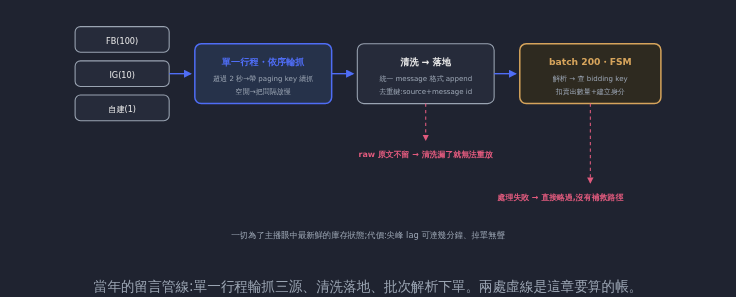
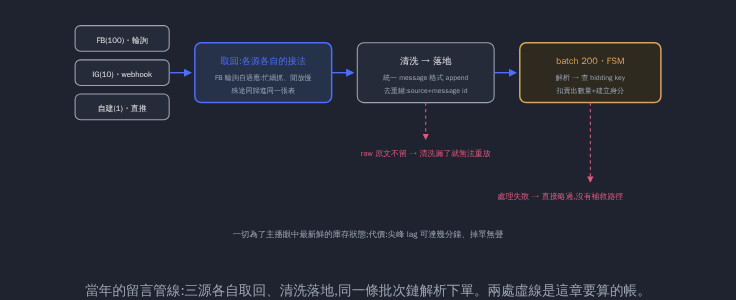
修正留言接入的描述:三源各自取回,同一條批次鏈消化
#3 原寫「單一行程依序輪抓三源」,與 #1「三個平台的取得方式完全不同
(webhook、輪詢、自家直推)」矛盾。實況是三源接法各異、但都落進同一
張 message 表由同一條批次處理鏈消化——「綁在一起」的是處理端不是抓
取端。本章明確聚焦 FB(流量 100:10:1),後續章節只討論 FB 因此成為
自然的聚焦而非矛盾:

- 開場補「三源殊途同歸」的框架,抓取故事明說以 FB 輪詢為主
- 管線圖:來源框標注各自接法,中間框改為「取回:各源各自的接法」
- 自適應輪詢的代價改寫為下游批次鏈的排隊,LWW 時鐘一問同步改為
  「落地順序+單一消費者」,重來版由「每源一條抓取迴圈」改為
  「每源一條處理鏈」
- FSM 節錄補一行註解,說明 _add_result 內 state=STYLE 與狀態圖
  NUMBER→DETERMIN 的關係
- 鐵人賽 day03 同步修正、day03-1.png 重產,day04 同步補註解

Claude-Session: https://claude.ai/code/session_01Fqj6R94ai215nT9qBcjGj2

diff --git a/src/content/blog/rezero-comment-order.md b/src/content/blog/rezero-comment-order.md
@@ -2,7 +2,7 @@
 title: "留言即下單:把聊天室變成下單通道"
 date: 2026-07-25
 category: tech
-description: "直播代購主線第一戰:單一行程輪抓三個平台的留言、自適應節奏、清洗落地,再用一台自製 FSM 把「2601藍+1紅+2」解析成訂單——逐段拆解這台狀態機的設計與精妙處,以及「失敗直接略過」這個最痛的取捨。"
+description: "直播代購主線第一戰:三個平台的留言殊途同歸進同一條處理鏈、FB 輪詢的自適應節奏、清洗落地,再用一台自製 FSM 把「2601藍+1紅+2」解析成訂單——逐段拆解這台狀態機的設計與精妙處,以及「失敗直接略過」這個最痛的取捨。"
 tags:
   - war-story
   - live-commerce
@@ -16,19 +16,19 @@ draft: false
 
 ## 當年的管線:一條迴圈,吃下三個平台
 
-留言來自三個源:**FB、IG、自建直播間**,流量比例大約 **100:10:1**——FB 是絕對主戰場。當年的接法樸素到有點可愛:
+留言來自三個源:**FB、IG、自建直播間**,流量比例大約 **100:10:1**——FB 是絕對主戰場。三源的取得方式各不相同(全景篇提過的 webhook、輪詢、自家直推),但殊途同歸:**全部落進同一張 message 表,由同一條批次處理鏈消化**。所以這章的抓取故事以 FB 的輪詢為主——流量在這裡,坑也都在這裡。當年的接法樸素到有點可愛:
 
 <figure style="margin:1.5rem 0;text-align:center;">
-  <svg viewBox="0 0 580 252" role="img" aria-label="當年的留言處理管線。左側三個來源:FB 流量占比一百、IG 十、自建一。單一行程的連續 job 依序輪抓三源,節奏自適應:一輪超過兩秒就帶著 paging key 立刻續抓,空閒就放慢。抓到的留言清洗成統一 message 格式後 append 進資料庫,但原文不保留。下游每批兩百筆,用 FSM 解析、查 bidding key、扣賣出數量並建立身分。兩個痛點以警示標出:原文不留等於無法重放修正;處理失敗直接略過、沒有補救路徑,尖峰時延遲可達幾分鐘。" style="width:100%;max-width:620px;height:auto;margin:0 auto;">
+  <svg viewBox="0 0 580 252" role="img" aria-label="當年的留言處理管線。左側三個來源,取得方式各不相同:FB 流量占比一百,靠自適應輪詢——連續 job 一輪超過兩秒就帶著 paging key 立刻續抓,空閒就放慢;IG 占比十,走 webhook;自建直播間占比一,自家直推。三源殊途同歸:清洗成統一 message 格式後 append 進同一張資料表,但原文不保留。下游是同一條批次處理鏈,每批兩百筆,用 FSM 解析、查 bidding key、扣賣出數量並建立身分。兩個痛點以警示標出:原文不留等於無法重放修正;處理失敗直接略過、沒有補救路徑,尖峰時延遲可達幾分鐘。" style="width:100%;max-width:620px;height:auto;margin:0 auto;">
     <defs><marker id="rcf" markerWidth="7" markerHeight="7" refX="5" refY="3" orient="auto"><path d="M0,0 L0,6 L6,3 z" fill="#4f6df5"/></marker><marker id="rcp" markerWidth="7" markerHeight="7" refX="5" refY="3" orient="auto"><path d="M0,0 L0,6 L6,3 z" fill="#e05a7d"/></marker></defs>
-    <rect x="16" y="24" width="88" height="24" rx="5" fill="#262b3a" stroke="#9aa4b2" stroke-width="1"/><text x="60" y="40" fill="#e6e6e6" font-size="7.6" text-anchor="middle">FB(100)</text>
-    <rect x="16" y="56" width="88" height="24" rx="5" fill="#262b3a" stroke="#9aa4b2" stroke-width="1"/><text x="60" y="72" fill="#e6e6e6" font-size="7.6" text-anchor="middle">IG(10)</text>
-    <rect x="16" y="88" width="88" height="24" rx="5" fill="#262b3a" stroke="#9aa4b2" stroke-width="1"/><text x="60" y="104" fill="#e6e6e6" font-size="7.6" text-anchor="middle">自建(1)</text>
+    <rect x="16" y="24" width="88" height="24" rx="5" fill="#262b3a" stroke="#9aa4b2" stroke-width="1"/><text x="60" y="40" fill="#e6e6e6" font-size="7.4" text-anchor="middle">FB(100)・輪詢</text>
+    <rect x="16" y="56" width="88" height="24" rx="5" fill="#262b3a" stroke="#9aa4b2" stroke-width="1"/><text x="60" y="72" fill="#e6e6e6" font-size="7.4" text-anchor="middle">IG(10)・webhook</text>
+    <rect x="16" y="88" width="88" height="24" rx="5" fill="#262b3a" stroke="#9aa4b2" stroke-width="1"/><text x="60" y="104" fill="#e6e6e6" font-size="7.4" text-anchor="middle">自建(1)・直推</text>
     <line x1="104" y1="68" x2="124" y2="68" stroke="#4f6df5" stroke-width="1.3" marker-end="url(#rcf)"/>
     <rect x="128" y="40" width="128" height="56" rx="6" fill="#26324a" stroke="#4f6df5" stroke-width="1.4"/>
-    <text x="192" y="60" fill="#4f6df5" font-size="8.6" text-anchor="middle" font-weight="bold">單一行程・依序輪抓</text>
-    <text x="192" y="75" fill="#9aa4b2" font-size="6.6" text-anchor="middle">超過 2 秒→帶 paging key 續抓</text>
-    <text x="192" y="87" fill="#9aa4b2" font-size="6.6" text-anchor="middle">空閒→把間隔放慢</text>
+    <text x="192" y="60" fill="#4f6df5" font-size="8.6" text-anchor="middle" font-weight="bold">取回:各源各自的接法</text>
+    <text x="192" y="75" fill="#9aa4b2" font-size="6.6" text-anchor="middle">FB 輪詢自適應:忙續抓、閒放慢</text>
+    <text x="192" y="87" fill="#9aa4b2" font-size="6.6" text-anchor="middle">殊途同歸進同一張表</text>
     <line x1="256" y1="68" x2="276" y2="68" stroke="#4f6df5" stroke-width="1.3" marker-end="url(#rcf)"/>
     <rect x="280" y="40" width="128" height="56" rx="6" fill="#262b3a" stroke="#9aa4b2" stroke-width="1"/>
     <text x="344" y="60" fill="#e6e6e6" font-size="8.6" text-anchor="middle" font-weight="bold">清洗 → 落地</text>
@@ -45,12 +45,12 @@ draft: false
     <text x="470" y="186" fill="#e05a7d" font-size="7.4" text-anchor="middle" font-weight="bold">處理失敗 → 直接略過,沒有補救路徑</text>
     <text x="290" y="222" fill="#9aa4b2" font-size="7.8" text-anchor="middle">一切為了主播眼中最新鮮的庫存狀態;代價:尖峰 lag 可達幾分鐘、掉單無聲</text>
   </svg>
-  <figcaption style="font-size:.85rem;color:#9aa4b2;margin-top:.4rem;">當年的留言管線:單一行程輪抓三源、清洗落地、批次解析下單。兩處虛線是這章要算的帳。</figcaption>
+  <figcaption style="font-size:.85rem;color:#9aa4b2;margin-top:.4rem;">當年的留言管線:三源各自取回、清洗落地,同一條批次鏈解析下單。兩處虛線是這章要算的帳。</figcaption>
 </figure>
 
 三個細節值得放大:
 
-- **自適應節奏其實是一個自調的速率控制器。** 一輪抓完看耗時:超過 2 秒代表留言正湧入,帶著 paging key 立刻接著抓;低於 2 秒代表場子冷,把間隔放慢一點。不用外部設定、不用監控儀表,迴圈自己感知流量、自己調速——小團隊憑直覺做出來的東西,事後看是很標準的 adaptive polling。它的缺點只有一個:**三個源綁在同一條迴圈上**,FB 爆量加速時,IG 和自建的新鮮度被拖著走;FB 被限流卡住時,另外兩源也一起等。
+- **FB 的輪詢,是一個自調的速率控制器。** 一輪抓完看耗時:超過 2 秒代表留言正湧入,帶著 paging key 立刻接著抓;低於 2 秒代表場子冷,把間隔放慢一點。不用外部設定、不用監控儀表,迴圈自己感知流量、自己調速——小團隊憑直覺做出來的東西,事後看是很標準的 adaptive polling。要付的代價在下游:三源殊途同歸之後**擠在同一條批次處理鏈上**,FB 爆量時,IG 和自建的單也跟著在佇列裡排隊——FB 的洪峰,是所有人的延遲。
 - **去重鍵選對了:`source + message id`。** 輪詢一定會抓到重疊區間,靠平台原生的留言 ID 當唯一鍵,重抓幾次都不會重複入庫——這是接入層的冪等,做對了後面全順。
 - **清洗完,原文就丟了。** 留言直接被轉成自訂的 message 格式落地,raw 不留。這個決定當年沒人多想,後來成了最貴的一筆學費——清洗規則漏接的留言,**連「漏接了什麼」都無從知道**,除錯只能用猜的。
 
@@ -110,7 +110,7 @@ class CommentsFSM:
             self.results.clear()                 # 中段壞掉:整則作廢
             self.state = self.State.ERROR
             return
-        self.state = self.State.STYLE
+        self.state = self.State.STYLE            # 收尾路徑用;途中結帳會被 _handle_number 蓋成 DETERMIN
         self.current_str = ""
         self.current_number = ""
 ```
@@ -180,7 +180,7 @@ class CommentsFSM:
 
 「同一人重複留言,以最後一筆為準」——[[ddia-replication|LWW]] 一句話就講完,但「最後」這個字要先回答三個問題:
 
-1. **以什麼時鐘為準?** 跨 FB/IG/自建三個源,各平台的時間戳基準不可比。當年的答案很務實:**以我們抓到的順序為主、平台時間戳為輔**——反正只有一條抓取迴圈,它進 DB 的順序就是全域順序。單一消費者的意外好處:**你自己就是時鐘**。
+1. **以什麼時鐘為準?** 跨 FB/IG/自建三個源,各平台的時間戳基準不可比。當年的答案很務實:**以我們落地的順序為主、平台時間戳為輔**——三源都寫進同一張 message 表,再由同一條批次處理鏈依序消化,入庫順序就是全域順序。單一消費者的意外好處:**你自己就是時鐘**。
 2. **覆蓋的粒度是什麼?** 是 key+style 級:後留的 `2601藍+1` 只蓋藍色,先前的 `2601紅+2` 還在。而且這是一個**帶副作用的 LWW**——蓋掉 `+2` 變 `+1`,購物車數量要改、賣出數量表要補回差額。一般系統的 LWW 丟掉舊值就完事,這裡的舊值佔著庫存,覆蓋即補償。
 3. **「最後」的邊界在哪一場?** 主播有**重喊**的需求——同一個 key 重新開賣,舊場次的單**全部清除、完整重算**,客人要重新留言。所以 LWW 的有效鍵其實是「人+場次+style」:重喊即斷代。被清單的客人沒有系統通知,純靠主播口播——這也是 feature:主播就是這個平台的通知系統,「現在不留就沒了」的急迫感,正是直播銷售的引擎。
 
@@ -190,7 +190,7 @@ class CommentsFSM:
 
 重來版不推翻這個優先序,只拆掉它的前提——當年之所以二選一,是因為「處理」和「事實」綁在同一條命脈上。拆開就好:
 
-- **每源一條抓取迴圈**,自適應節奏保留,但 FB 的洪峰不再拖累 IG 和自建;
+- **每源一條處理鏈**(取回端本來就各自獨立),FB 的洪峰不再拖著 IG 和自建的單一起排隊;
 - **raw 原文與統一事件都落地**([[ddia-streaming|事件流]]是唯一事實來源),清洗規則漏接,重放就能補;
 - **快路徑照樣跳過失敗**——但失敗的事件進 dead-letter 佇列留著,一條慢速補救路徑事後重放([[kafka-delivery|投遞語意]]那套在這裡全用得上);
 - 解析與扣庫存**拆成兩段**:解析是純函式、可以平行,扣庫存才需要排隊——當年它們擠在同一個 batch 迴圈裡,慢的拖著快的。

diff --git a/docs/ironman/day03.md b/docs/ironman/day03.md
@@ -4,13 +4,13 @@
 
 ## 當年的管線:一條迴圈,吃下三個平台
 
-留言來自三個源:**FB、IG、自建直播間**,流量比例大約 **100:10:1**——FB 是絕對主戰場。當年的接法樸素到有點可愛:
+留言來自三個源:**FB、IG、自建直播間**,流量比例大約 **100:10:1**——FB 是絕對主戰場。三源的取得方式各不相同(Day 1 提過的 webhook、輪詢、自家直推),但殊途同歸:**全部落進同一張 message 表,由同一條批次處理鏈消化**。所以這章的抓取故事以 FB 的輪詢為主——流量在這裡,坑也都在這裡。當年的接法樸素到有點可愛:
 
-![當年的留言管線:單一行程輪抓三源、清洗落地、批次解析下單。兩處虛線是這章要算的帳。](day03-1.png)
+![當年的留言管線:三源各自取回、清洗落地,同一條批次鏈解析下單。兩處虛線是這章要算的帳。](day03-1.png)
 
 三個細節值得放大:
 
-- **自適應節奏其實是一個自調的速率控制器。** 一輪抓完看耗時:超過 2 秒代表留言正湧入,帶著 paging key 立刻接著抓;低於 2 秒代表場子冷,把間隔放慢一點。不用外部設定、不用監控儀表,迴圈自己感知流量、自己調速——小團隊憑直覺做出來的東西,事後看是很標準的 adaptive polling。它的缺點只有一個:**三個源綁在同一條迴圈上**,FB 爆量加速時,IG 和自建的新鮮度被拖著走;FB 被限流卡住時,另外兩源也一起等。
+- **FB 的輪詢,是一個自調的速率控制器。** 一輪抓完看耗時:超過 2 秒代表留言正湧入,帶著 paging key 立刻接著抓;低於 2 秒代表場子冷,把間隔放慢一點。不用外部設定、不用監控儀表,迴圈自己感知流量、自己調速——小團隊憑直覺做出來的東西,事後看是很標準的 adaptive polling。要付的代價在下游:三源殊途同歸之後**擠在同一條批次處理鏈上**,FB 爆量時,IG 和自建的單也跟著在佇列裡排隊——FB 的洪峰,是所有人的延遲。
 - **去重鍵選對了:`source + message id`。** 輪詢一定會抓到重疊區間,靠平台原生的留言 ID 當唯一鍵,重抓幾次都不會重複入庫——這是接入層的冪等,做對了後面全順。
 - **清洗完,原文就丟了。** 留言直接被轉成自訂的 message 格式落地,raw 不留。這個決定當年沒人多想,後來成了最貴的一筆學費——清洗規則漏接的留言,**連「漏接了什麼」都無從知道**,除錯只能用猜的。
 
@@ -18,7 +18,7 @@
 
 「同一人重複留言,以最後一筆為準」——LWW 一句話就講完,但「最後」這個字要先回答三個問題:
 
-1. **以什麼時鐘為準?** 跨 FB/IG/自建三個源,各平台的時間戳基準不可比。當年的答案很務實:**以我們抓到的順序為主、平台時間戳為輔**——反正只有一條抓取迴圈,它進 DB 的順序就是全域順序。單一消費者的意外好處:**你自己就是時鐘**。
+1. **以什麼時鐘為準?** 跨 FB/IG/自建三個源,各平台的時間戳基準不可比。當年的答案很務實:**以我們落地的順序為主、平台時間戳為輔**——三源都寫進同一張 message 表,再由同一條批次處理鏈依序消化,入庫順序就是全域順序。單一消費者的意外好處:**你自己就是時鐘**。
 2. **覆蓋的粒度是什麼?** 是 key+style 級:後留的 `2601藍+1` 只蓋藍色,先前的 `2601紅+2` 還在。而且這是一個**帶副作用的 LWW**——蓋掉 `+2` 變 `+1`,購物車數量要改、賣出數量表要補回差額。一般系統的 LWW 丟掉舊值就完事,這裡的舊值佔著庫存,覆蓋即補償。
 3. **「最後」的邊界在哪一場?** 主播有**重喊**的需求——同一個 key 重新開賣,舊場次的單**全部清除、完整重算**,客人要重新留言。所以 LWW 的有效鍵其實是「人+場次+style」:重喊即斷代。被清單的客人沒有系統通知,純靠主播口播——這也是 feature:主播就是這個平台的通知系統,「現在不留就沒了」的急迫感,正是直播銷售的引擎。
 
@@ -28,7 +28,7 @@
 
 重來版不推翻這個優先序,只拆掉它的前提——當年之所以二選一,是因為「處理」和「事實」綁在同一條命脈上。拆開就好:
 
-- **每源一條抓取迴圈**,自適應節奏保留,但 FB 的洪峰不再拖累 IG 和自建;
+- **每源一條處理鏈**(取回端本來就各自獨立),FB 的洪峰不再拖著 IG 和自建的單一起排隊;
 - **raw 原文與統一事件都落地**(事件流是唯一事實來源),清洗規則漏接,重放就能補;
 - **快路徑照樣跳過失敗**——但失敗的事件進 dead-letter 佇列留著,一條慢速補救路徑事後重放(投遞語意那套在這裡全用得上);
 - 解析與扣庫存**拆成兩段**:解析是純函式、可以平行,扣庫存才需要排隊——當年它們擠在同一個 batch 迴圈裡,慢的拖著快的。

diff --git a/docs/ironman/day04.md b/docs/ironman/day04.md
@@ -58,7 +58,7 @@ class CommentsFSM:
             self.results.clear()                 # 中段壞掉:整則作廢
             self.state = self.State.ERROR
             return
-        self.state = self.State.STYLE
+        self.state = self.State.STYLE            # 收尾路徑用;途中結帳會被 _handle_number 蓋成 DETERMIN
         self.current_str = ""
         self.current_number = ""
 ```
